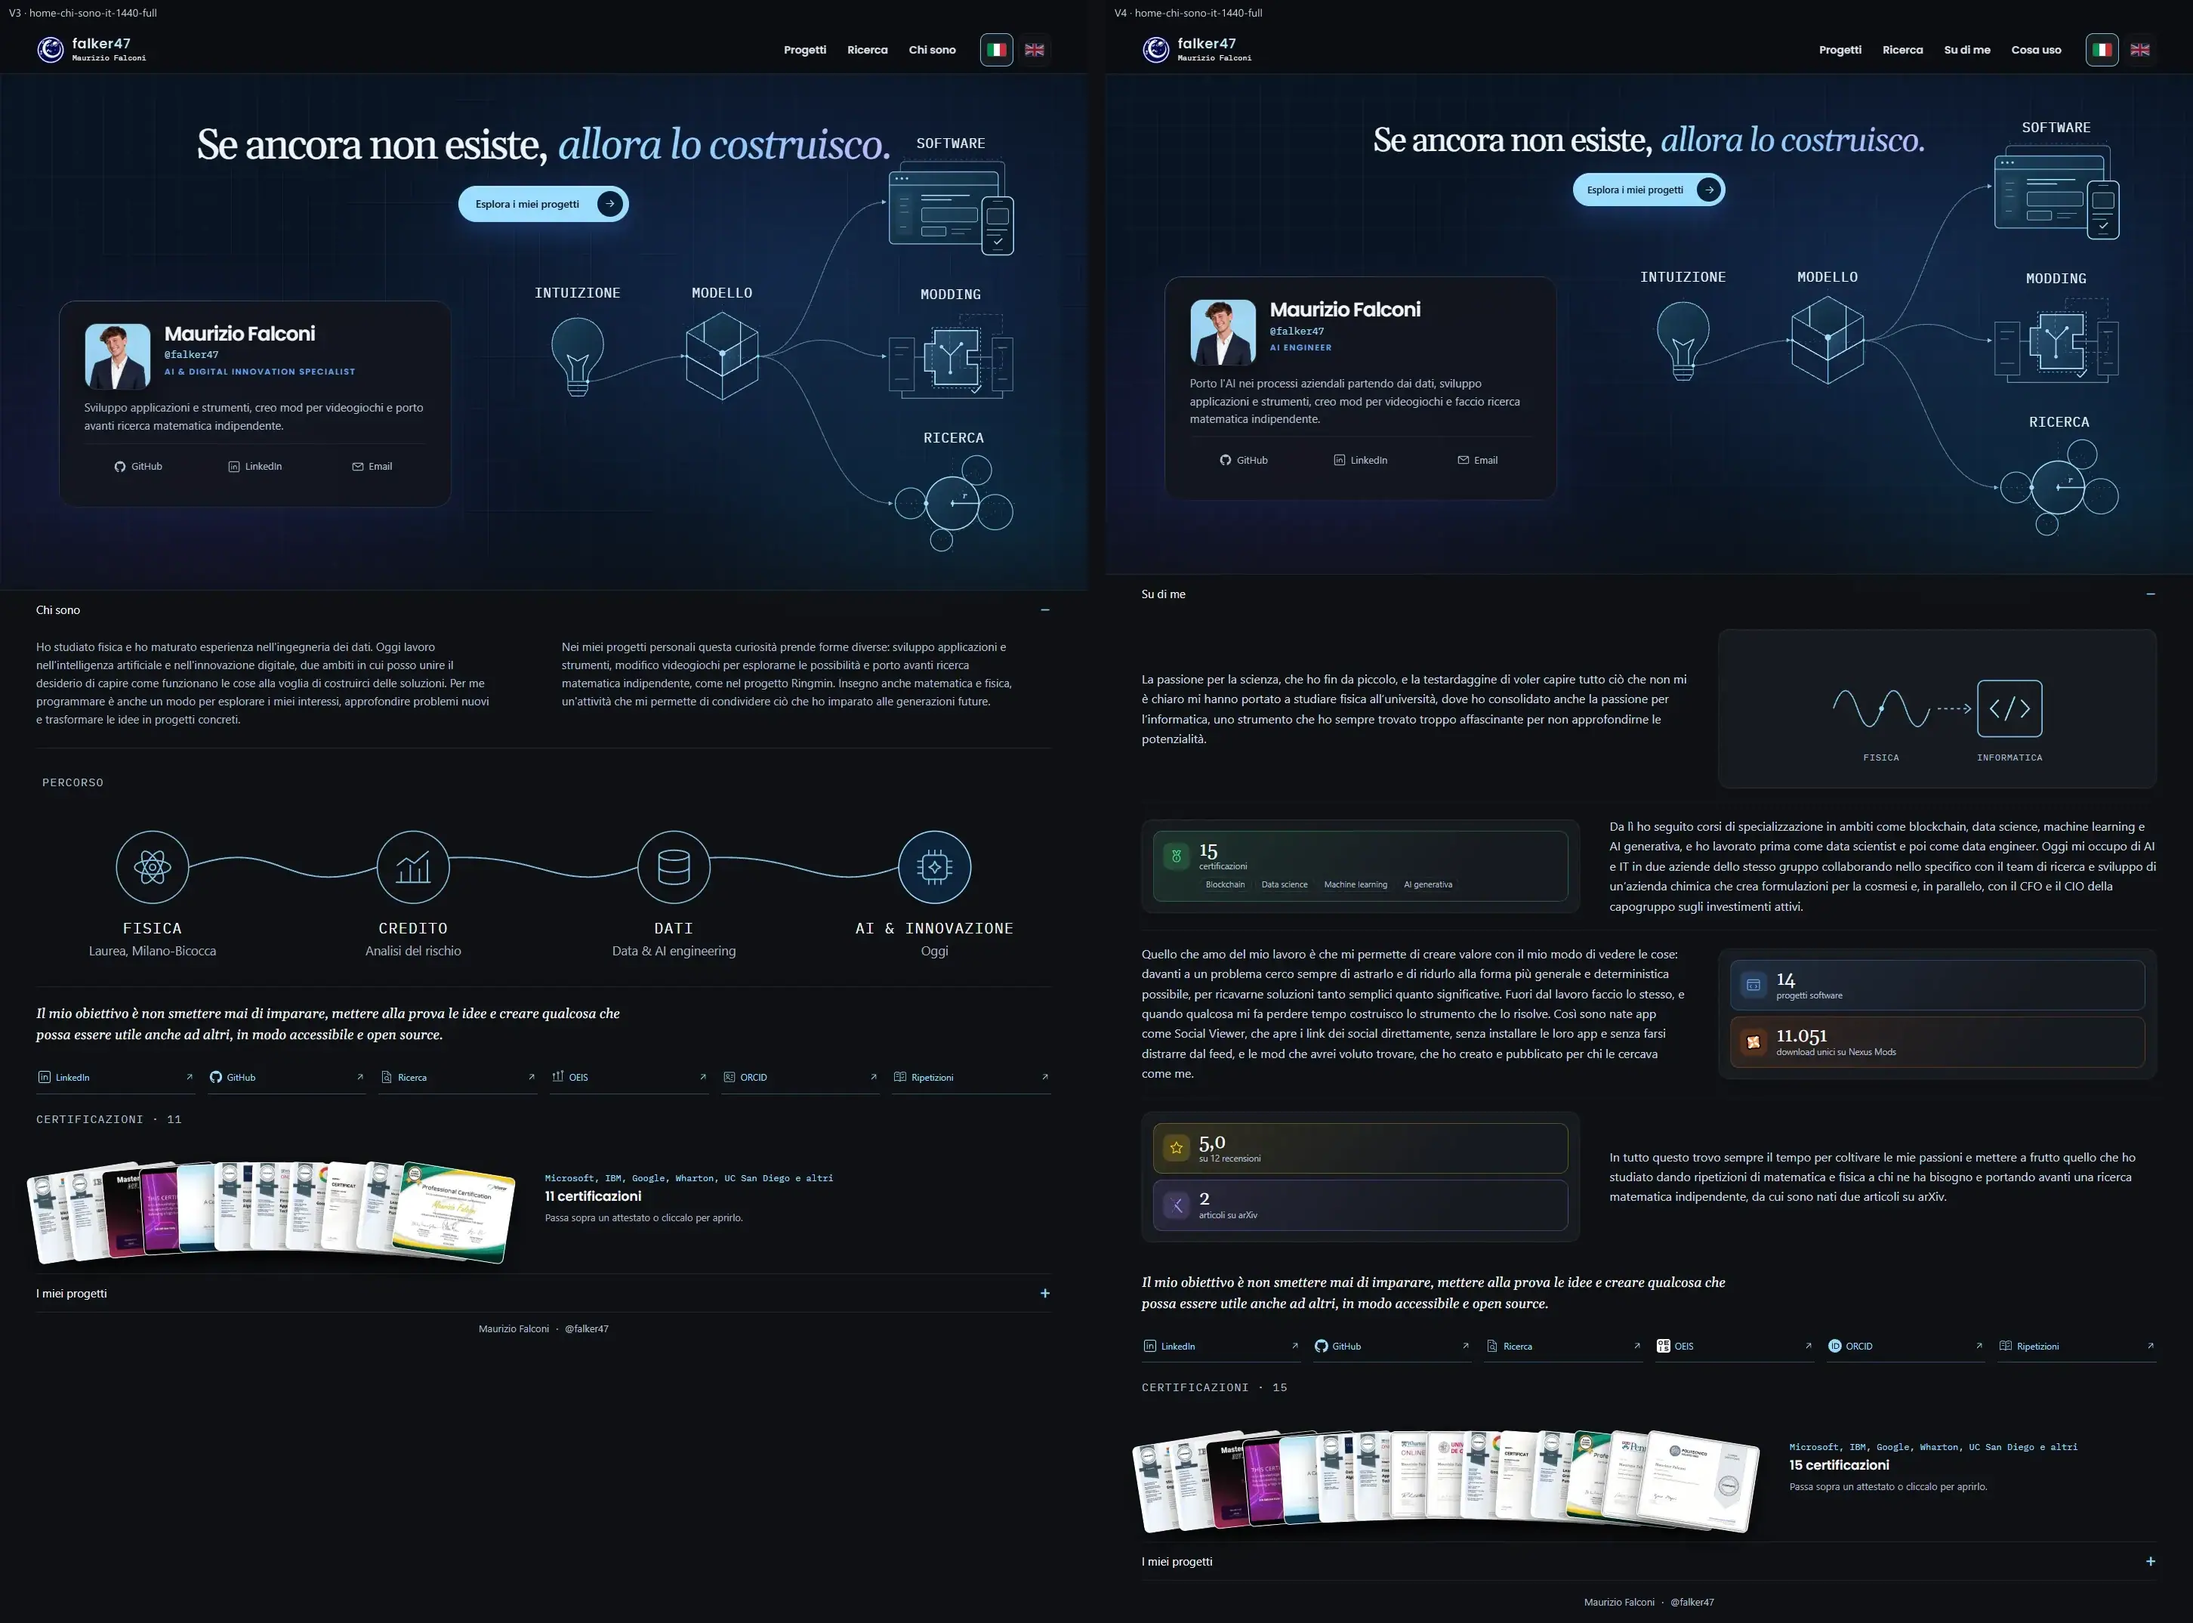
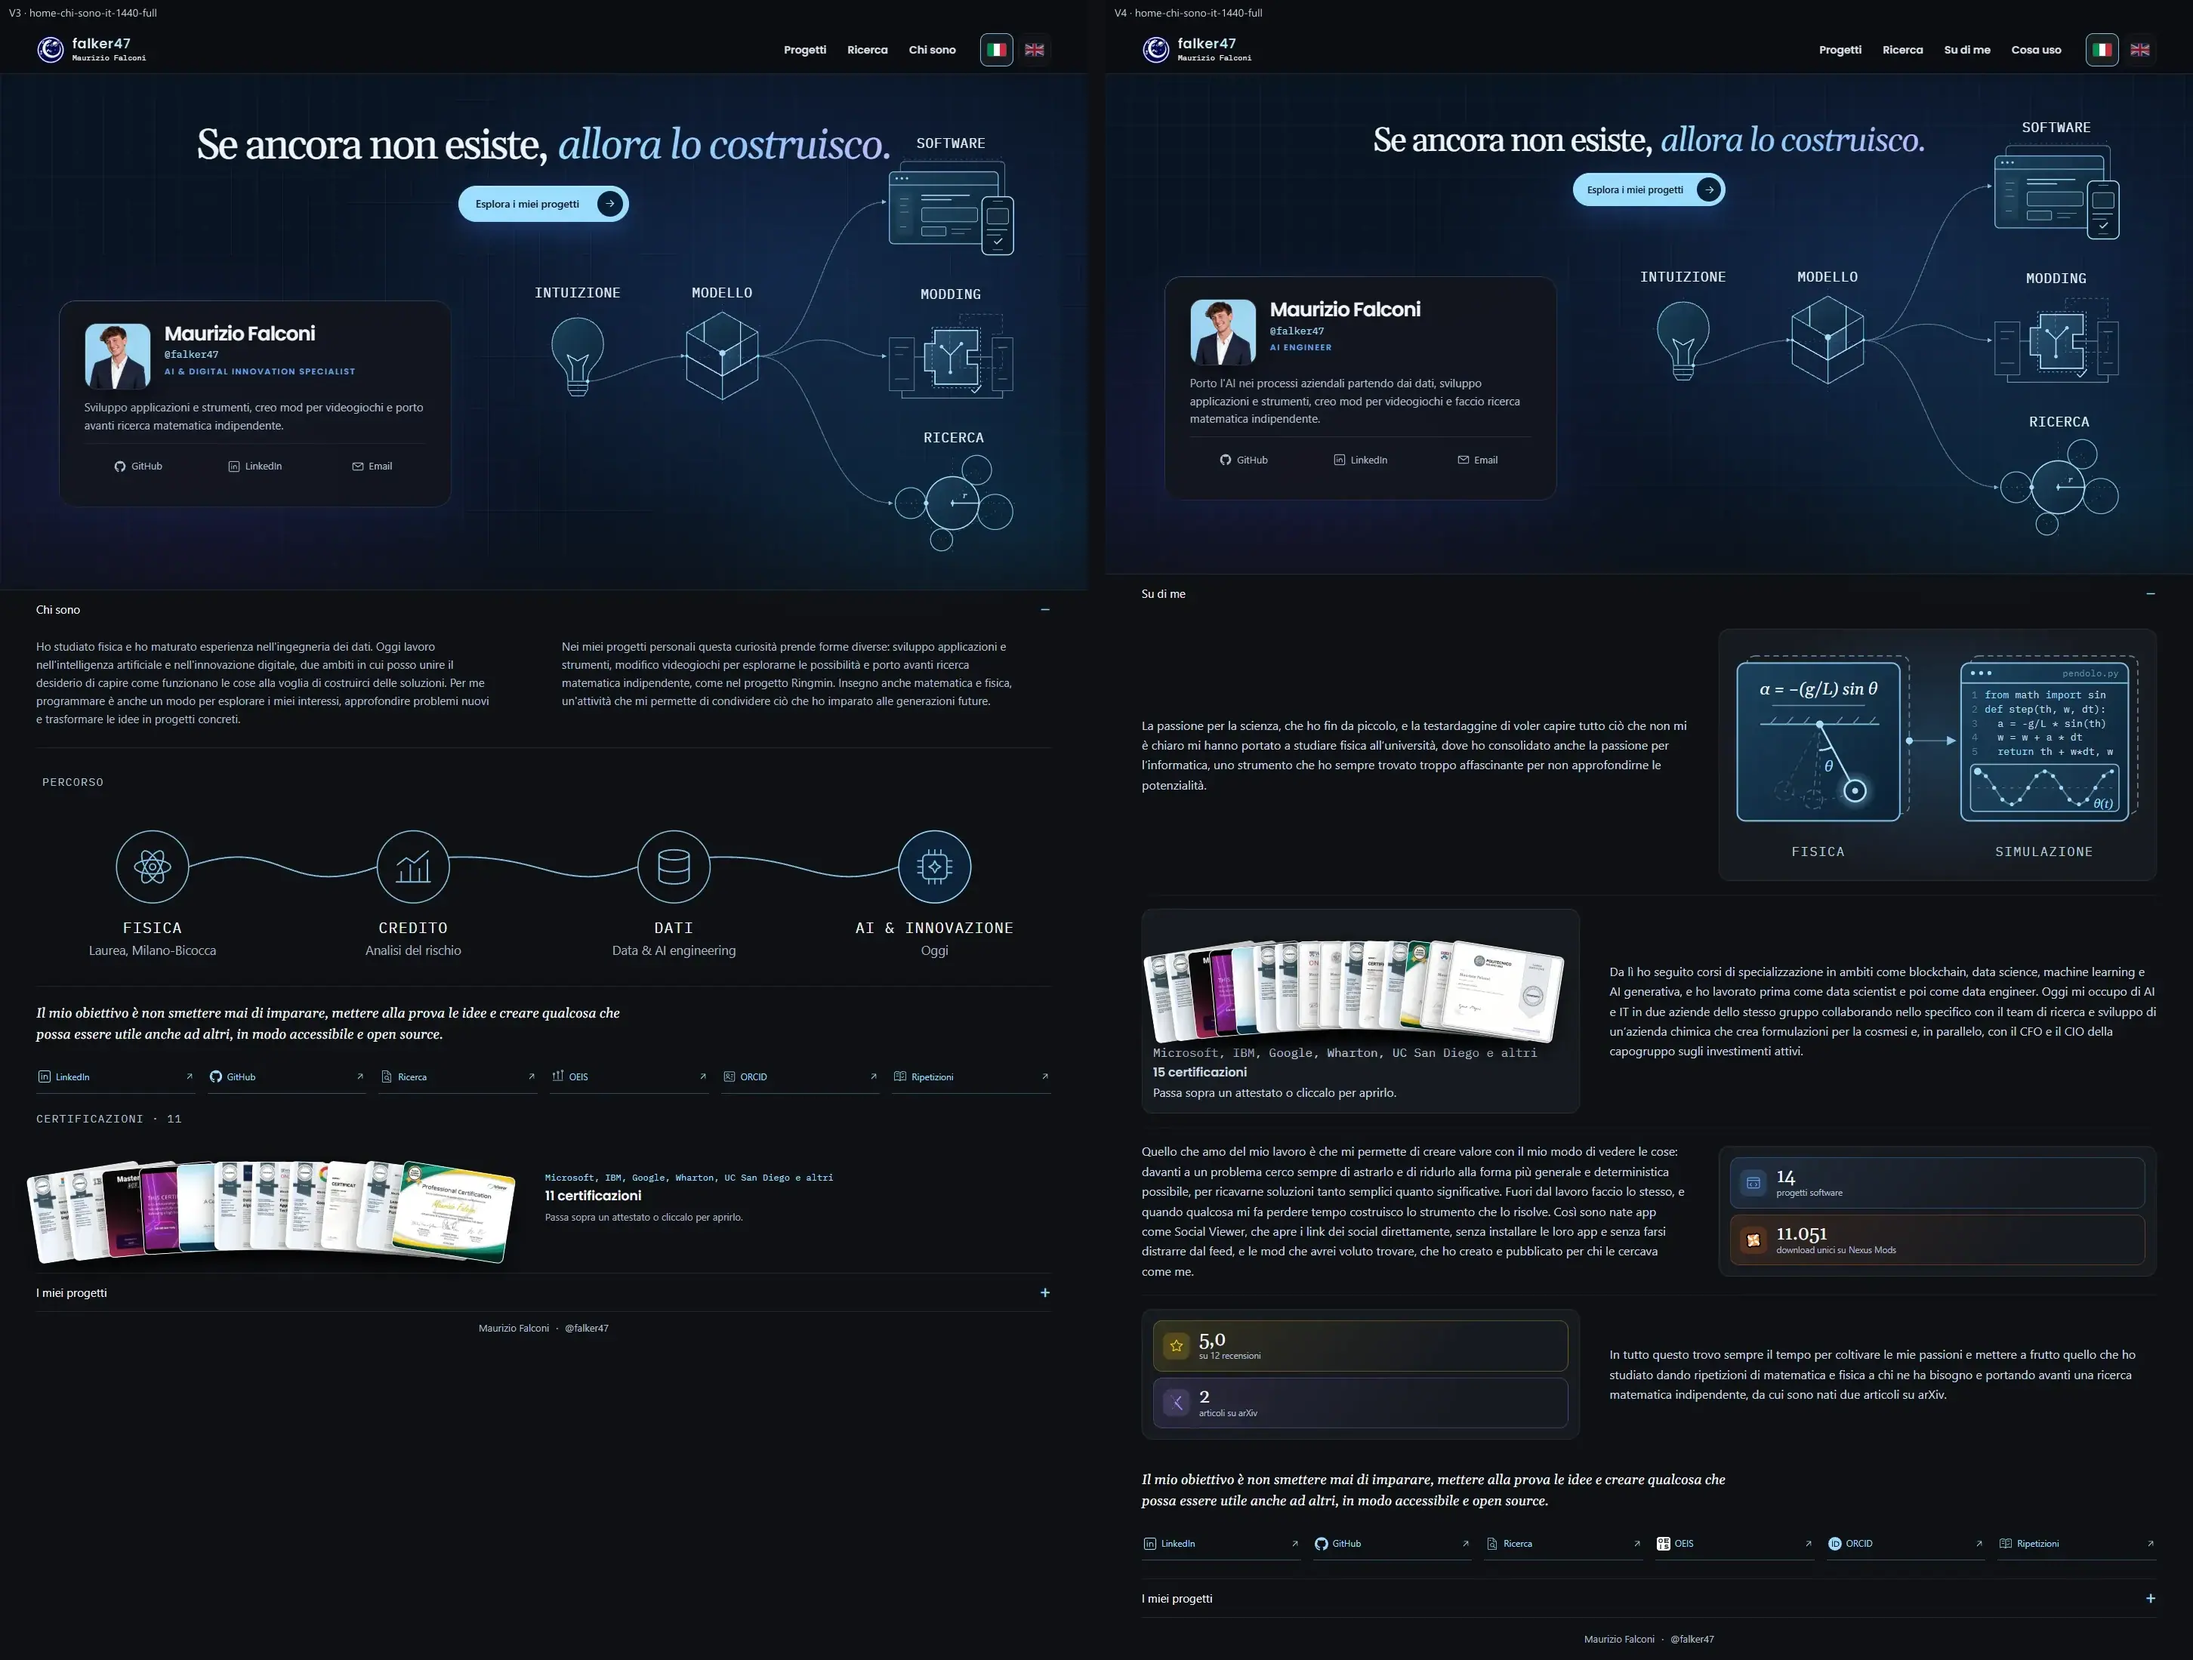
V4: pendulum and simulation beside the studies, certificate fan beside the work
Row 1 shows a simple pendulum under α = −(g/L) sin θ and the same law
as a semi-implicit Euler step in Python, with the undamped θ(t) it
computes, in the line language of the hero; tests pin the formula, the
code and the constant amplitude. Row 2 holds the certificate fan in
place of the certificates tile. Home HTML+CSS+JS: 229,952 of 230,000.

diff --git a/src/styles/sections.css b/src/styles/sections.css
@@ -23,22 +23,40 @@
 .about-row:first-child {border-top:0}
 .about-row p {font-size:16px;line-height:1.65;color:var(--secondary);margin:0}
 .about-figure {margin:0;padding:14px;border:1px solid var(--rule);border-radius:14px;background:var(--surface)}
-.studies-drawing {display:block;width:100%;max-width:340px;height:auto;margin:0 auto}
-.studies-line {stroke:var(--stroke);stroke-width:1.6}
-.studies-bright {stroke:var(--blue);stroke-width:1.8}
-.studies-dash {stroke-dasharray:4 4}
-.studies-dot {fill:var(--blue)}
-.studies-label {font:500 11px var(--mono);letter-spacing:var(--tracking);text-transform:uppercase;fill:var(--muted)}
+/* The pendulum and its simulation, in the line language of the hero. */
+.figure-studies {padding:10px 8px;background:radial-gradient(ellipse at 50% 46%,#25608c6b,transparent 70%) var(--surface)}
+.studies-drawing {display:block;width:100%;height:auto;stroke-linejoin:round;stroke-linecap:round}
+.st-ln {stroke:var(--stroke);stroke-width:1.25}
+.st-ln.trace {opacity:.55}
+.st-br {stroke:#ade3ff;stroke-width:1.55}
+.st-qt {stroke:#6792ae;stroke-width:1}
+.st-gh {stroke:#577f9e;stroke-width:1.1;stroke-dasharray:4 4}
+.st-dt,.studies-axis {stroke:#446c89;stroke-width:.75;stroke-dasharray:2 5}
+.st-pn {stroke:#82bbdf;stroke-width:1.35}
+.st-pn.bob {stroke:#ade3ff;stroke-width:1.7}
+.st-bk {fill:#83d3ff12;stroke:#86bddd;stroke-width:1}
+.st-ch {stroke:#547d9a;stroke-width:1.15}
+.st-ar {fill:#88c4e9}
+.st-pt,.studies-samples {fill:var(--blue)}
+.st-pt:not(.quiet),.studies-samples :first-child {stroke:#c8edff;stroke-width:.6}
+.studies-eq {font:italic 14px var(--serif);fill:var(--paper)}
+.st-vr {font:italic 13px var(--serif);fill:var(--blue)}
+.st-vr.small {font-size:10px}
+.st-fl {font:8px var(--mono);fill:#6792ae}
+.st-gt {font:8.5px var(--mono);fill:#577f9e}
+.studies-code {font:8.6px var(--mono);fill:var(--secondary)}
+.st-kw {fill:var(--blue)}
+.studies-label {font:11px var(--mono);letter-spacing:.09em;text-transform:uppercase;fill:#b4ccdc}
+/* The certificate fan in the work row: the caption under the cards, as close as the column needs. */
+.figure-work .credentials {margin:0}
+.figure-work .deck {grid-template-columns:minmax(0,1fr)}
 /* The figures: counted from the data at build time, each a tile in the colour of the section it
    opens, with that section's mark or icon. */
 .facts-list {display:grid;gap:8px;margin:0;padding:0;list-style:none}
 .fact-software {--tone:#60a5fa}
 .fact-modding {--tone:#f97316}
 .fact-research {--tone:#a78bfa}
-.fact-credentials {--tone:#4ade80}
 .fact-tutoring {--tone:var(--star)}
-.fact-topics {grid-column:2;display:flex;flex-wrap:wrap;gap:4px;margin-top:6px}
-.fact-topics span {font:11px/1.3 var(--sans);color:var(--muted);border:1px solid var(--rule);border-radius:99px;padding:2px 8px}
 .fact {display:grid;grid-template-columns:36px minmax(0,1fr);grid-template-rows:auto auto;column-gap:12px;align-items:center;height:100%;min-height:44px;padding:12px;border:1px solid color-mix(in srgb,var(--tone) 28%,transparent);border-radius:12px;background:linear-gradient(135deg,color-mix(in srgb,var(--tone) 12%,var(--surface)),var(--surface) 70%);color:var(--paper);transition:border-color .16s,transform .16s}
 .fact-glyph {grid-row:1/3;display:grid;place-items:center;width:36px;height:36px;border-radius:10px;background:color-mix(in srgb,var(--tone) 18%,transparent);color:var(--tone)}
 .fact-glyph :is(.icon,.brand) {width:20px;height:20px}
@@ -198,6 +216,7 @@ a.result:hover .result-label {color:var(--paper)}
 :where(.about,.work) :is(a, button) {min-height:var(--target)}
 
 @media(min-width:600px) {
+.figure-work .deck-fan {--step:min(46px,(100% - var(--w) - 24px) / (var(--n) - 1));width:100%}
 .paper-cards {grid-template-columns:repeat(2,calc((100% - 24px)/2.25))}
 .footer {padding-block:20px 28px}
 .about-actions {grid-template-columns:repeat(3,minmax(0,1fr));gap:4px 24px}

diff --git a/AGENTS.md b/AGENTS.md
@@ -14,7 +14,7 @@ The static site builds with Node 22 and its standard library. Run commands from 
 | Redirect stub | `/projects/` → `/#progetti` |
 | Error recovery | `/404.html` |
 
-The home is the master home with the Nexus skin (direction V3, [design brief](docs/unify/BRIEF.md); the approved look is the V3 prototype, kept outside the repository at `~/sources/v3-prototype`): the header bar (three home sections, then "Cosa uso" at `/uses/`), the hero in its own band, the collapsible "Su di me" (`#chi-sono`, certificates at `#certificazioni`) and "I miei progetti" (`#progetti`, four tabs; `#ricerca` is its Research tab), and a one-line footer. Every project lives in the home: `src/pages/home/work.mjs` renders the software categories from `data/projects.json` in data order, every published mod from `data/nexus-mods.json` (the three covers and repositories in `data/mods.json` win over the Nexus pictures), the two papers from `data/research.json` with the drawings of `src/partials/ringmin.mjs`, and the tutoring cards from `data/tutoring.json`. `src/pages/home/about.mjs` renders four rows, each paragraph followed by its figure and alternating sides from 900 px: a line drawing for the studies (`src/partials/about-studies.mjs`), then tiles counted from the data at build time, each a link to its section (certificates with their course topics; software projects and Nexus unique downloads; the tutoring rating and the arXiv papers). The rating is the mean of `data/tutoring.json` ratings weighted by their number (`src/lib/rating.mjs`). Then the certificate fan (`certificateDeck` in `src/partials/components.mjs`) from `data/certifications.json`. Every count in the three panels (the category toggles, the Nexus total, the paper count) is one tile shaped like the "Su di me" figures; the pressed toggle is outlined in the panel accent. The card buttons are the foot of each card: up to three in a row, sharing its width, the platform mark left of the label; a card too narrow for three gives the first a row of its own. The Modding tab uses the Nexus Mods orange (`--nexus`). External action buttons go through `actionLink` in `src/partials/components.mjs`: a platform listed in `data/brands.json` shows its mark ([sources and licences](docs/unify/BRANDS.md)), any other link keeps an arrow icon. The footer signature links to the home on every page. All groups are in the HTML; `src/client/components.js` only shows one tab and one category at a time and handles the menu, the rails, the viewer and the deep links. `src/partials/detail-page.mjs` draws the top card of every project page. Use `data/profile.json` for identity and contacts. Keep visible strings and accessible labels paired in `data/i18n/it.json` and `data/i18n/en.json`. The Social Viewer privacy text has a comparison fixture in `docs/unify/privacy-snapshot.txt`.
+The home is the master home with the Nexus skin (direction V3, [design brief](docs/unify/BRIEF.md); the approved look is the V3 prototype, kept outside the repository at `~/sources/v3-prototype`): the header bar (three home sections, then "Cosa uso" at `/uses/`), the hero in its own band, the collapsible "Su di me" (`#chi-sono`, certificates at `#certificazioni`) and "I miei progetti" (`#progetti`, four tabs; `#ricerca` is its Research tab), and a one-line footer. Every project lives in the home: `src/pages/home/work.mjs` renders the software categories from `data/projects.json` in data order, every published mod from `data/nexus-mods.json` (the three covers and repositories in `data/mods.json` win over the Nexus pictures), the two papers from `data/research.json` with the drawings of `src/partials/ringmin.mjs`, and the tutoring cards from `data/tutoring.json`. `src/pages/home/about.mjs` renders four rows, each paragraph followed by its figure and alternating sides from 900 px: for the studies a drawing in the hero line language (`src/partials/about-studies.mjs`: a simple pendulum under α = −(g/L) sin θ, then the same law as a semi-implicit Euler step in Python and the undamped θ(t) it computes; tests pin the formula, the code and the constant amplitude), for the work the certificate fan, then tiles counted from the data at build time, each a link to its section (software projects and Nexus unique downloads; the tutoring rating and the arXiv papers). The rating is the mean of `data/tutoring.json` ratings weighted by their number (`src/lib/rating.mjs`). The certificate fan (`certificateDeck` in `src/partials/components.mjs`) from `data/certifications.json`. Every count in the three panels (the category toggles, the Nexus total, the paper count) is one tile shaped like the "Su di me" figures; the pressed toggle is outlined in the panel accent. The card buttons are the foot of each card: up to three in a row, sharing its width, the platform mark left of the label; a card too narrow for three gives the first a row of its own. The Modding tab uses the Nexus Mods orange (`--nexus`). External action buttons go through `actionLink` in `src/partials/components.mjs`: a platform listed in `data/brands.json` shows its mark ([sources and licences](docs/unify/BRANDS.md)), any other link keeps an arrow icon. The footer signature links to the home on every page. All groups are in the HTML; `src/client/components.js` only shows one tab and one category at a time and handles the menu, the rails, the viewer and the deep links. `src/partials/detail-page.mjs` draws the top card of every project page. Use `data/profile.json` for identity and contacts. Keep visible strings and accessible labels paired in `data/i18n/it.json` and `data/i18n/en.json`. The Social Viewer privacy text has a comparison fixture in `docs/unify/privacy-snapshot.txt`.
 
 `data/redirects.json` is active. The seven `/Nexus-portfolio/` source URLs include two aliases for one index file, and `/projects/` is the eighth stub. The build publishes the stubs and copies the assets in `legacy/Nexus-portfolio/assets/` to their original paths. Preserve the exact paths and hashes in `legacy/sha256.json`. Never remove a listed route or file; a target may change. Other project Pages sites use their own repositories and reserved top-level paths. [URL map](docs/unify/URL-MAP.md)
 
